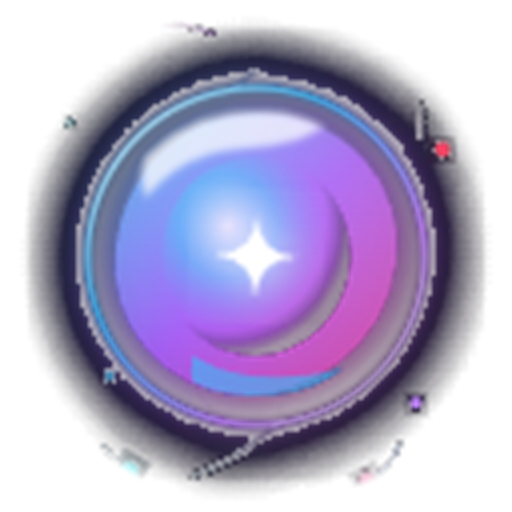
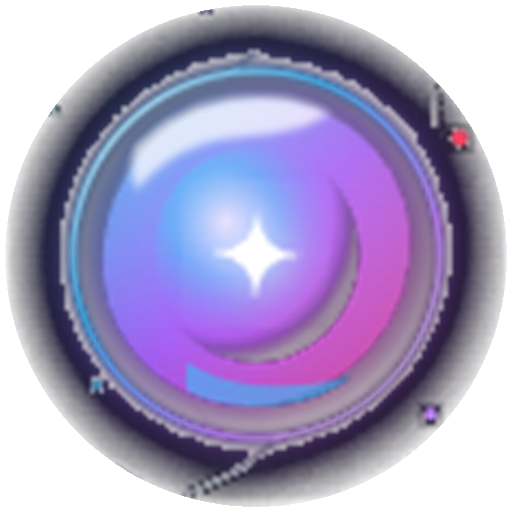
fix: perfectly adjust molten orb size, centering, and eliminate outer ring gap in navbar and player deck

diff --git a/style.css b/style.css
@@ -186,18 +186,19 @@ body {
 }
 
 .logo-gem-icon {
-  width: 44px;
-  height: 44px;
+  width: 42px;
+  height: 42px;
   border-radius: 50%;
   position: relative;
   display: flex;
   align-items: center;
   justify-content: center;
   overflow: hidden;
-  background: radial-gradient(circle, rgba(255, 255, 255, 0.12) 0%, rgba(13, 17, 23, 0.4) 100%);
-  border: 1px solid rgba(255, 255, 255, 0.25);
-  box-shadow: 0 0 16px rgba(168, 85, 247, 0.4);
+  background: transparent;
+  border: 1.5px solid rgba(255, 255, 255, 0.35);
+  box-shadow: 0 0 18px rgba(168, 85, 247, 0.5), inset 0 0 8px rgba(255, 255, 255, 0.2);
   animation: orbFloatPulse 5s ease-in-out infinite alternate;
+  flex-shrink: 0;
 }
 
 .brand-orb-img {
@@ -219,7 +220,7 @@ body {
   object-fit: cover;
   border-radius: 50%;
   display: block;
-  box-shadow: 0 0 20px rgba(168, 85, 247, 0.6);
+  filter: drop-shadow(0 0 15px rgba(168, 85, 247, 0.6));
 }
 
 .dock-disc-mini {
@@ -614,37 +615,37 @@ body {
 
 .album-art-wrap {
   position: relative;
-  width: 120px;
-  height: 120px;
+  width: 124px;
+  height: 124px;
 }
 
 .art-glow {
   position: absolute;
-  inset: -10px;
+  inset: -12px;
   border-radius: 50%;
-  background: radial-gradient(circle, rgba(56, 189, 248, 0.5), rgba(168, 85, 247, 0.2), transparent 70%);
-  filter: blur(18px);
+  background: radial-gradient(circle, rgba(56, 189, 248, 0.55), rgba(168, 85, 247, 0.35), transparent 70%);
+  filter: blur(20px);
   animation: discPulse 4s infinite alternate;
 }
 
 @keyframes discPulse {
-  0% { transform: scale(0.9); opacity: 0.5; }
-  100% { transform: scale(1.15); opacity: 0.9; }
+  0% { transform: scale(0.92); opacity: 0.5; }
+  100% { transform: scale(1.12); opacity: 0.95; }
 }
 
 .art-disc {
   width: 100%;
   height: 100%;
   border-radius: 50%;
-  background: radial-gradient(circle, #1a2035 0%, #0d111d 80%, #06080e 100%);
-  border: 2px solid rgba(255, 255, 255, 0.25);
-  box-shadow: 0 10px 25px rgba(0, 0, 0, 0.6), inset 0 0 15px rgba(255, 255, 255, 0.2);
+  position: relative;
+  overflow: hidden;
   display: flex;
   align-items: center;
   justify-content: center;
-  position: relative;
-  overflow: hidden;
+  border: 2px solid rgba(255, 255, 255, 0.4);
+  box-shadow: 0 12px 35px rgba(0, 0, 0, 0.65), 0 0 30px rgba(168, 85, 247, 0.5), inset 0 0 15px rgba(255, 255, 255, 0.25);
   transition: transform 0.5s ease;
+  background: radial-gradient(circle, rgba(255, 255, 255, 0.08) 0%, rgba(13, 17, 23, 0.6) 100%);
 }
 
 .art-disc.spinning {
@@ -659,23 +660,22 @@ body {
 .prism-refraction {
   position: absolute;
   inset: 0;
-  background: conic-gradient(from 180deg at 50% 50%, rgba(255, 0, 128, 0.2), rgba(0, 255, 255, 0.2), rgba(255, 255, 0, 0.2), rgba(255, 0, 128, 0.2));
+  border-radius: 50%;
+  background: conic-gradient(from 180deg at 50% 50%, rgba(255, 0, 128, 0.18), rgba(0, 255, 255, 0.18), rgba(255, 255, 0, 0.18), rgba(255, 0, 128, 0.18));
   mix-blend-mode: overlay;
+  pointer-events: none;
+  z-index: 2;
 }
 
 .liquid-core {
-  width: 76px;
-  height: 76px;
+  width: 100%;
+  height: 100%;
   border-radius: 50%;
-  background: radial-gradient(circle, rgba(255, 255, 255, 0.1) 0%, rgba(10, 15, 28, 0.8) 100%);
-  backdrop-filter: blur(8px);
-  border: 1.5px solid rgba(255, 255, 255, 0.45);
   display: flex;
   align-items: center;
   justify-content: center;
   position: relative;
   overflow: hidden;
-  box-shadow: 0 0 25px rgba(168, 85, 247, 0.5), inset 0 0 10px rgba(255, 255, 255, 0.2);
 }
 
 .liquid-core.orb-core {
